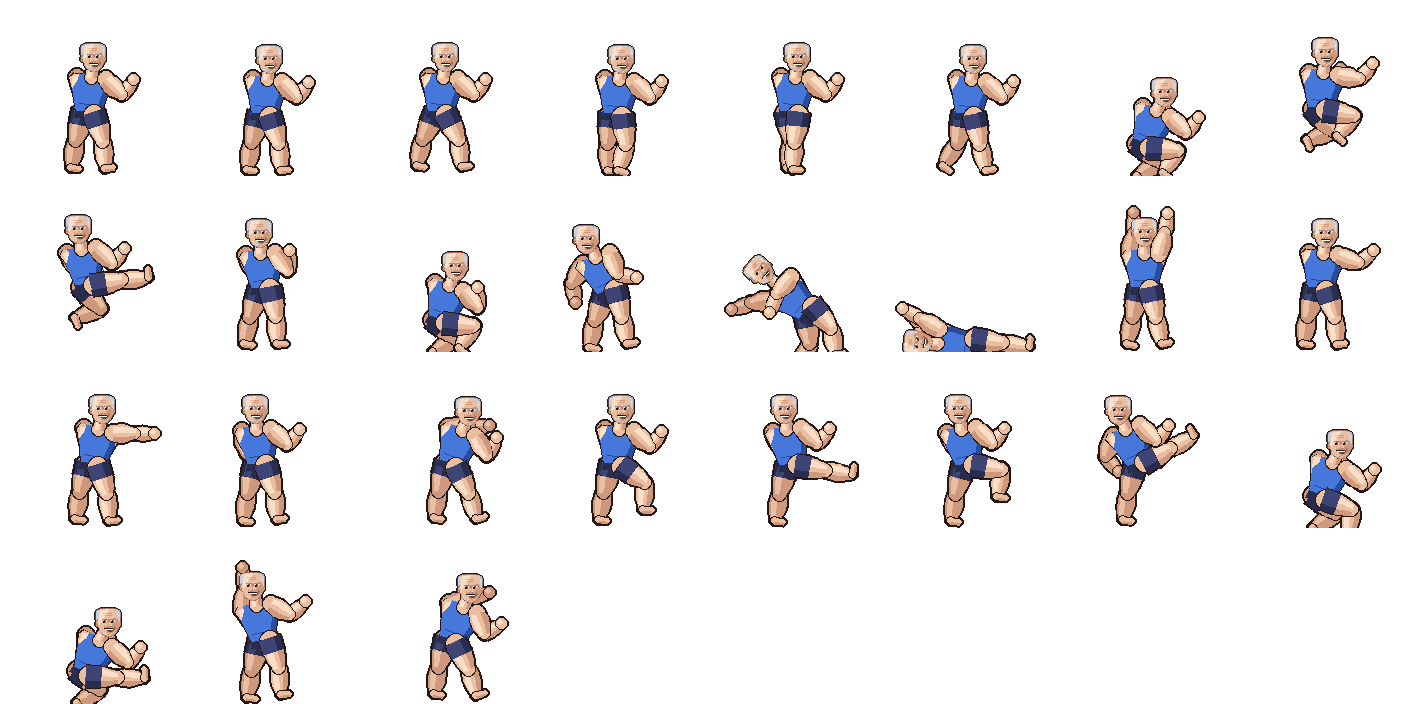
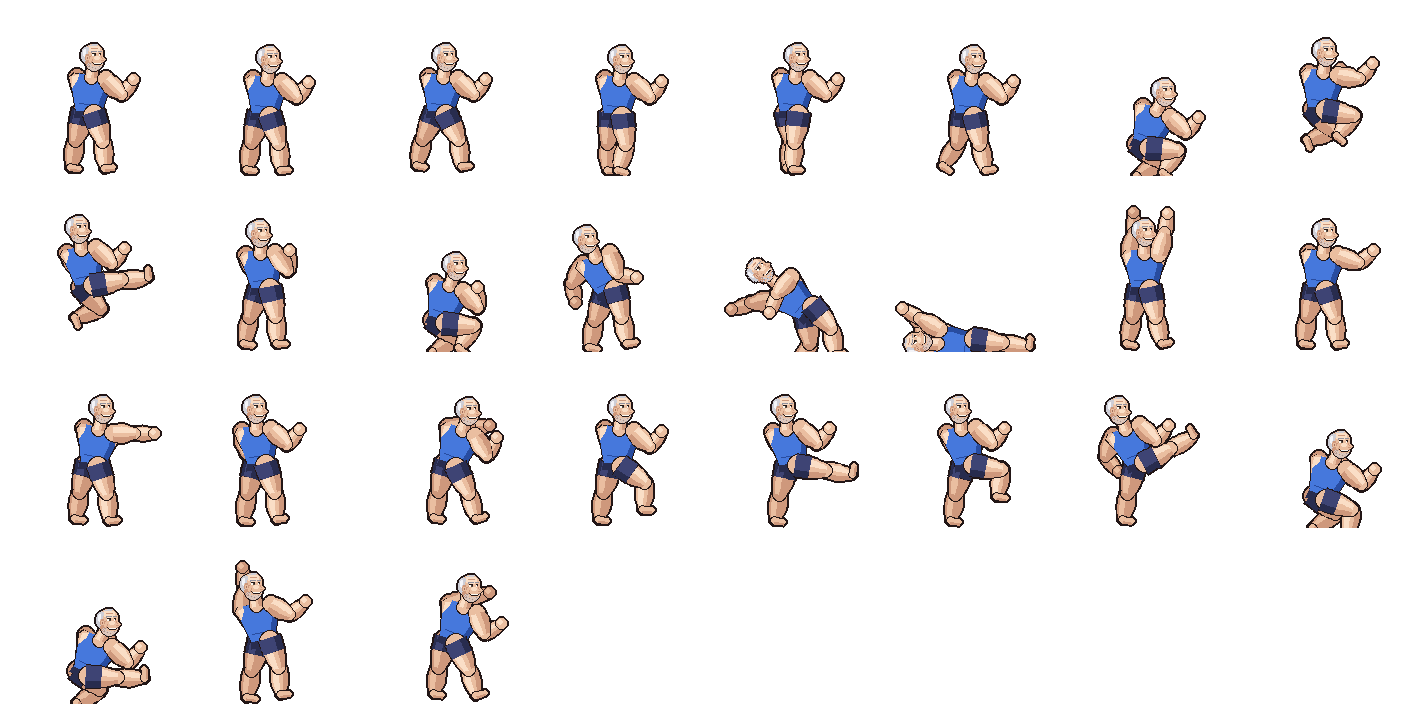
Fight mode: Nonno's head in 3/4 view
New 26x29 head looking right (back/side grey hair, fringe, profile nose,
near/far eyes, smile, stubble), drawn at 4x, reduced and snapped to the
portrait palette, details inked at 1x.

Claude-Session: https://claude.ai/code/session_011YvcqbiPhiAB8M4Pzj16CK

diff --git a/nonno/tools/mkfighters.py b/nonno/tools/mkfighters.py
@@ -107,10 +107,80 @@ def nonno_head_small(big):
     return head
 
 
+def nonno_head_34():
+    """Nonno's head in 3/4 view looking right, 26x29.
+
+    Big shapes are drawn at 4x and box-reduced (smooth contours), then snapped to the
+    portrait palette; eyes, brows and mouth are inked at 1x so they stay crisp.
+    """
+    S, W, H = 4, 26, 29
+    big = Image.new('RGBA', (W * S, H * S), M.CLEAR)
+    d = ImageDraw.Draw(big)
+    sk, gr = M.SK, M.GR
+    A = lambda c: c + (255,)
+    Q = lambda pts: [(x * S, y * S) for x, y in pts]
+    E = lambda x0, y0, x1, y1: (x0 * S, y0 * S, x1 * S, y1 * S)
+    # hair at the back of the head (behind the skull)
+    d.ellipse(E(1, 3, 15, 21), fill=A(gr[1]))
+    # skull + jaw + chin
+    d.ellipse(E(3, 1, 23, 21), fill=A(sk[1]))
+    d.polygon(Q([(5, 13), (22, 12), (23.5, 18), (21, 24.5), (16, 28), (11, 27.5), (7, 24), (5, 19)]), fill=A(sk[1]))
+    # light on the forehead and cheek, shade on the back of the jaw
+    d.ellipse(E(8, 2, 20, 10), fill=A(sk[0]))
+    d.ellipse(E(14, 13, 20, 17), fill=A(sk[0]))
+    d.polygon(Q([(5, 15), (9, 16), (10, 24), (8, 25), (5, 20)]), fill=A(sk[2]))
+    # nose sticking out of the profile
+    d.polygon(Q([(20, 10.5), (25.5, 16.5), (24.5, 18), (21, 18)]), fill=A(sk[1]))
+    d.polygon(Q([(21, 17), (24.5, 17.2), (24, 18), (21.5, 18.3)]), fill=A(sk[2]))
+    # side hair over the ear and the thin fringe on top
+    d.polygon(Q([(2, 7), (6, 3.5), (9, 4.5), (8, 9), (7, 13), (5.5, 18), (3, 16), (1.5, 11)]), fill=A(gr[1]))
+    d.polygon(Q([(3, 7), (5, 5), (6, 9), (4, 14), (3, 11)]), fill=A(gr[0]))
+    d.polygon(Q([(8, 2.5), (14, 0.8), (19, 1.5), (16, 2.6), (11, 3.4)]), fill=A(gr[1]))
+    # near ear
+    d.ellipse(E(5, 11, 9.5, 18), fill=A(sk[2]))
+    d.ellipse(E(6, 12.5, 8.5, 16.5), fill=A(sk[1]))
+    head = big.resize((W, H), Image.BOX)
+    pal = list(sk) + list(gr) + [(252, 250, 242), (84, 72, 62)]
+    head = M.quantize_to(head, pal)
+    d = ImageDraw.Draw(head)
+    # stubble on the jaw and the chin (checkerboard, as on the portrait)
+    for y in range(20, 28):
+        for x in range(7, 23):
+            px = head.getpixel((x, y))
+            if px[3] and px[:3] in (sk[0], sk[1], sk[2]) and (x + y) % 2 == 0 and not (12 <= x <= 21 and 19 <= y <= 22):
+                head.putpixel((x, y), A(gr[1] if (x * 3 + y) % 5 else gr[2]))
+    # eyes: near one bigger, far one smaller and closer to the profile
+    d.rectangle((12, 11, 15, 12), fill=A((252, 250, 242)))
+    d.rectangle((14, 11, 15, 12), fill=A((84, 72, 62)))
+    d.point((15, 11), fill=A(M.OL))
+    d.line((12, 10, 15, 10), fill=A(M.OL))
+    d.rectangle((19, 11, 20, 12), fill=A((252, 250, 242)))
+    d.point((20, 11), fill=A(M.OL)); d.point((20, 12), fill=A((84, 72, 62)))
+    d.line((19, 10, 20, 10), fill=A(M.OL))
+    # brows (grey, bushy) and forehead lines
+    d.line((11, 8, 16, 8), fill=A(gr[2])); d.point((11, 9), fill=A(gr[2]))
+    d.line((18, 8, 21, 8), fill=A(gr[2]))
+    d.line((11, 5, 17, 5), fill=A(sk[2]))
+    # big smile with the upper teeth, smile fold
+    d.line((13, 20, 21, 20), fill=A(M.OL))
+    d.line((14, 21, 20, 21), fill=A(M.OL))
+    d.line((14, 20, 20, 20), fill=A((252, 250, 242)))
+    d.point((12, 19), fill=A(M.OL)); d.point((22, 19), fill=A(sk[3]))
+    d.line((12, 16, 11, 19), fill=A(sk[2]))
+    # near ear and nose ridge, inked so they read at this size
+    d.rectangle((6, 12, 8, 17), fill=A(sk[1]))
+    d.line((5, 13, 5, 16), fill=A(sk[2])); d.line((6, 12, 8, 12), fill=A(sk[2])); d.line((6, 17, 8, 17), fill=A(sk[2]))
+    d.line((7, 14, 7, 15), fill=A(sk[3]))
+    d.line((20, 12, 22, 15), fill=A(sk[2]))
+    # wrinkle at the eye corner (crow's feet towards the ear)
+    d.point((11, 12), fill=A(sk[2])); d.point((10, 13), fill=A(sk[2]))
+    return M.outline(head, M.OL)
+
+
 def nonno():
     big = portrait.build()
     sk = M.SK
-    return Char('nonno', head=nonno_head_small(big), thigh=28, shin=27, uarm=22, farm=20, torso=40, neck=4,
+    return Char('nonno', head=nonno_head_34(), thigh=28, shin=27, uarm=22, farm=20, torso=40, neck=4,
                 shoulders=44, chest=38, waist=24, arm=(15, 10, 5), fore=(12, 8, 3), leg=(19, 12, 4), calf=(14, 8, 5),
                 neckw=12, fist=5, skin=sk[:3], top=NONNO_TOP, shorts=[(62, 68, 116), M.SHORT], bare=False,
                 ol=M.OL, foot=sk[1])
